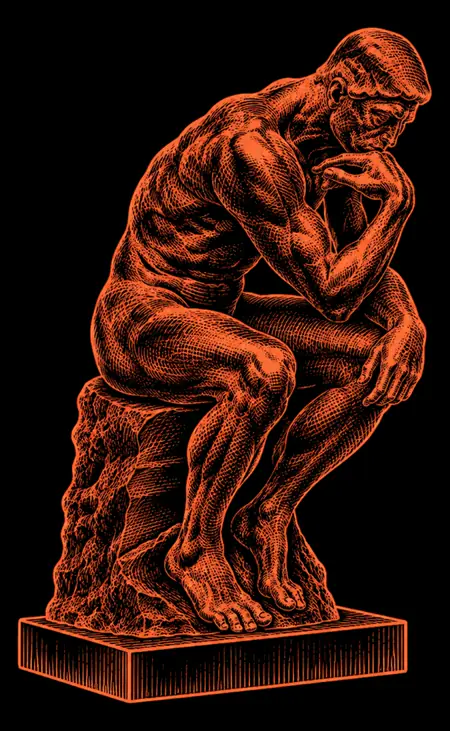
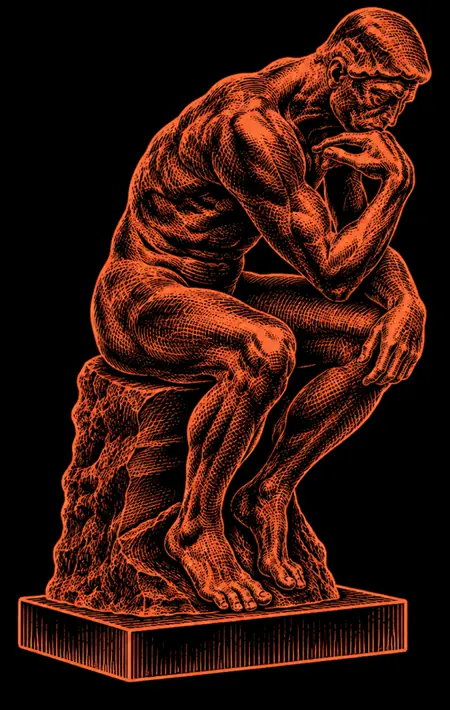
feat(spacing): refine event cards to thinker statue spacing and crop

diff --git a/client/src/components/Quote/Quote.jsx b/client/src/components/Quote/Quote.jsx
@@ -45,6 +45,36 @@ export default function Quote() {
 
     observer.observe(el);
 
+    // Dev-only check: measure card to statue distance
+    if (import.meta.env.DEV) {
+      const measureCardToStatue = () => {
+        const cards = document.querySelectorAll('.eventCard, [class*="eventCard"]');
+        const lastCard = cards[cards.length - 1];
+        const statue = el.querySelector(`.${styles.statueImage}`);
+        if (lastCard && statue) {
+          const cardRect = lastCard.getBoundingClientRect();
+          const statueRect = statue.getBoundingClientRect();
+          // Known crop offset: 8px on 901px canvas (0.89%)
+          const firstNonBlackRow = statueRect.top + statueRect.height * (8 / 901);
+          const dist = Math.round(firstNonBlackRow - cardRect.bottom);
+          const w = window.innerWidth;
+          const target = w >= 1024 ? 88 : 56;
+          console.info(
+            `[QuoteDistanceCheck] Width ${w}px: measured distance = ${dist}px (target: ${target}px, diff: ${dist - target}px)`
+          );
+        }
+      };
+      window.__measureCardToStatue = measureCardToStatue;
+      const distTimer = setTimeout(measureCardToStatue, 800);
+      window.addEventListener('resize', measureCardToStatue);
+      return () => {
+        clearTimeout(fallbackTimer);
+        clearTimeout(distTimer);
+        window.removeEventListener('resize', measureCardToStatue);
+        observer.disconnect();
+      };
+    }
+
     return () => {
       clearTimeout(fallbackTimer);
       observer.disconnect();
@@ -68,7 +98,7 @@ export default function Quote() {
               srcSet={`${thinker450Webp} 450w, ${thinkerWebp} 900w`}
               sizes="(min-width: 1024px) 450px, (min-width: 768px) 320px, 62vw"
               width={900}
-              height={1461}
+              height={1420}
               alt="Orange line drawing of The Thinker statue, seated with his chin on his hand"
               className={styles.statueImage}
               decoding="async"

diff --git a/client/src/components/Quote/Quote.module.css b/client/src/components/Quote/Quote.module.css
@@ -3,16 +3,16 @@
 .quoteSection {
   position: relative;
   width: 100%;
-  padding-top: 96px;
-  padding-bottom: 96px;
+  padding-top: 16px;
+  padding-bottom: 72px;
   background-color: var(--surface-0, #000000);
   overflow: hidden;
 }
 
 @media (min-width: 1024px) {
   .quoteSection {
-    padding-top: 120px;
-    padding-bottom: 120px;
+    padding-top: 32px;
+    padding-bottom: 96px;
   }
 }
 
@@ -54,10 +54,17 @@
   justify-content: center;
   position: relative;
   flex-shrink: 0;
+  margin-top: -10px;
   /* Transform & opacity animation */
   opacity: 1;
   transform: translateY(0);
   transition: opacity 600ms cubic-bezier(0.16, 1, 0.3, 1), transform 600ms cubic-bezier(0.16, 1, 0.3, 1);
+}
+
+@media (min-width: 1024px) {
+  .statueWrapper {
+    margin-top: -20px;
+  }
 }
 
 /* When interactive pre-state is applied but not yet triggered */
@@ -74,7 +81,7 @@
   user-select: none;
   width: clamp(200px, 62vw, 320px);
   height: auto;
-  aspect-ratio: 900 / 1461;
+  aspect-ratio: 900 / 1420;
   object-fit: contain;
 
   /* Soft vertical edge fade so plinth does not end abruptly */

diff --git a/client/src/components/Events/Events.module.css b/client/src/components/Events/Events.module.css
@@ -2,14 +2,18 @@
 /* Professional Dark Theme Event Cards & Detail Panel */
 
 .eventsSection {
+  --events-gap: 32px;
   position: relative;
   overflow: hidden;
-  padding-block: 4.5rem;
+  padding-top: 80px;
+  padding-bottom: 48px !important;
 }
 
-@media (max-width: 767px) {
+@media (min-width: 1024px) {
   .eventsSection {
-    padding-block: 80px;
+    --events-gap: 28px;
+    padding-top: 4.5rem;
+    padding-bottom: 72px !important;
   }
 }
 
@@ -26,14 +30,14 @@
 .cardsGrid {
   display: grid;
   grid-template-columns: 1fr;
-  gap: 16px;
+  gap: var(--events-gap);
   align-items: stretch;
 }
 
-@media (min-width: 768px) {
+@media (min-width: 1024px) {
   .cardsGrid {
     grid-template-columns: 1fr 1fr;
-    gap: 24px;
+    gap: var(--events-gap);
     align-items: stretch;
   }
 }
